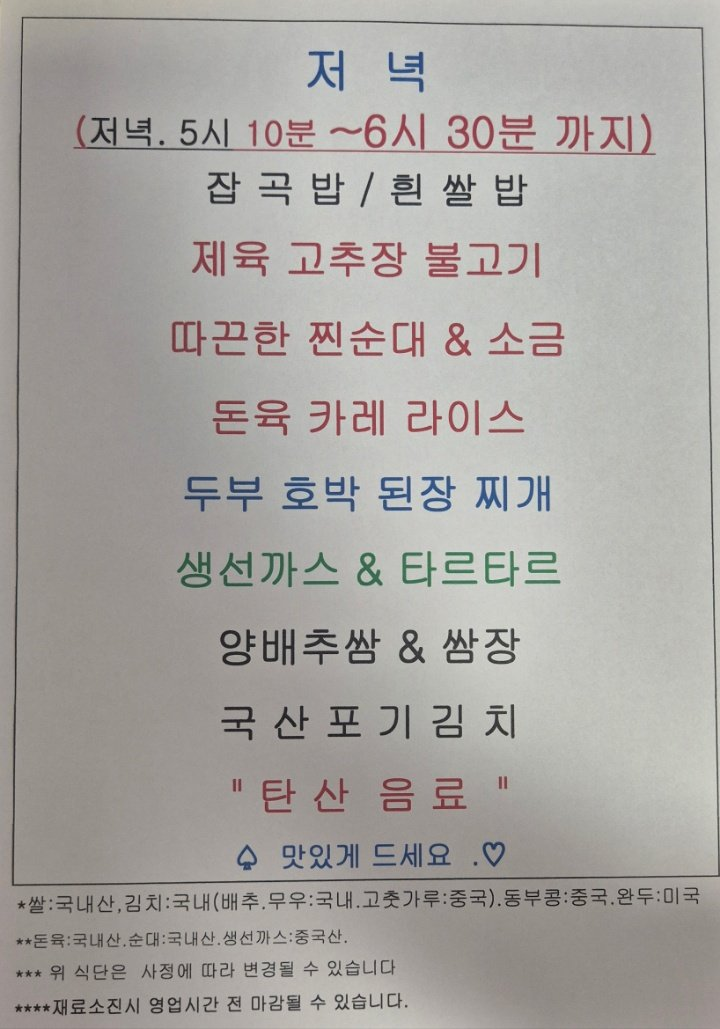
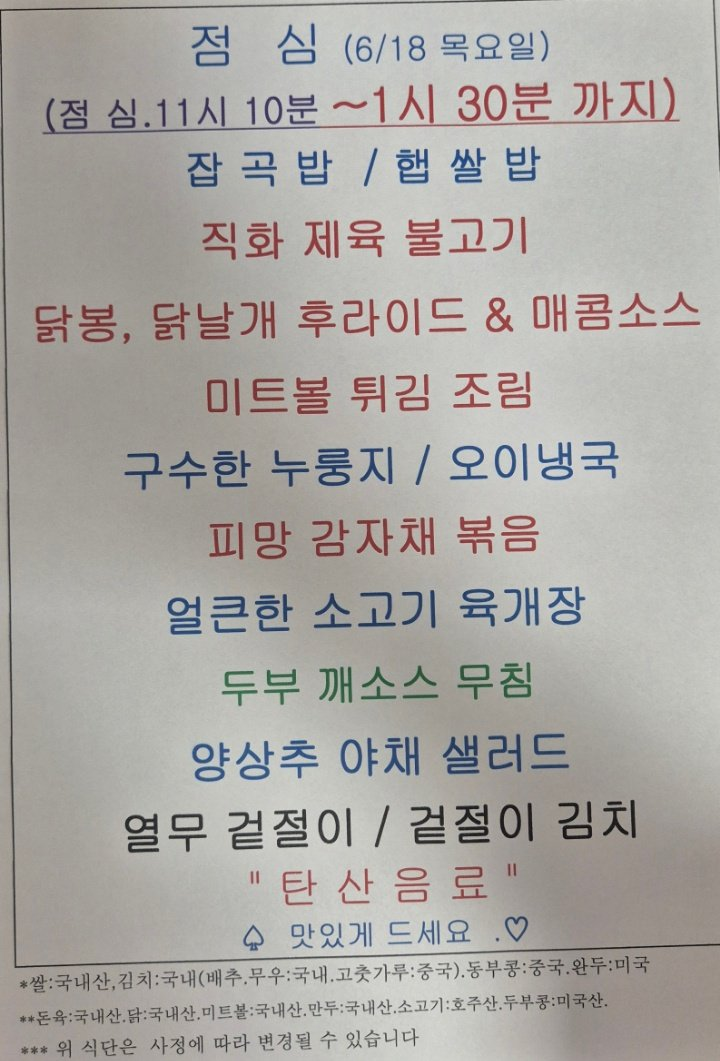
Update menu board assets

diff --git a/menu-today/index.html b/menu-today/index.html
@@ -209,7 +209,7 @@
 
     <section class="meta-bar">
       <div class="meta-card"><div class="meta-label">기준 날짜</div><div class="meta-value">2026년 6월 18일 목요일</div></div>
-      <div class="meta-card"><div class="meta-label">최종 가져온 시간</div><div class="meta-value">2026-06-18 10:03:27</div></div>
+      <div class="meta-card"><div class="meta-label">최종 가져온 시간</div><div class="meta-value">2026-06-18 10:13:34</div></div>
       <div class="meta-card"><div class="meta-label">확인 완료</div><div class="meta-value">10개 식당</div></div>
       <div class="meta-card"><div class="meta-label">준비중</div><div class="meta-value">3개 채널</div></div>
     </section>
@@ -255,7 +255,7 @@
             <div class="sub">디폴리스지식산업센터</div>
           </div>
         </div>
-        <div class="menu-inline-image"><img src="./images/dipolis.png" alt="디폴리스 구내식당 식단 이미지"></div><ul><li>잡곡밥 / 흰쌀밥</li><li>AS 고추장 불고기</li><li>따끈한 Ae &amp; 소금</li><li>돈육 카레 라이스</li><li>몰 호박 된장 찌개</li><li>양배추쌈 &amp; 쌈장</li><li>정에 따라 변경될 수 있습니다</li><li>트리</li><li>까지</li><li>불고</li><li>돈육 발레 라이스</li><li>호박 된장 찌개</li><li>쌈 &amp; 쌈장</li><li>(배추.무우:국</li></ul>
+        <div class="menu-inline-image"><img src="./images/dipolis.png" alt="디폴리스 구내식당 식단 이미지"></div><ul><li>빨곡밥 / 핸쌀밥</li><li>직화 제육 불고기</li><li>닭봉, 닭날개 후라이드 &amp; 매콤소스</li><li>미트볼 튀김 조림</li><li>구수한 누룽지 / 오이냉국</li><li>피망 감자재 +S</li><li>얼큰한 소고기 육개장</li><li>두부 깨소스 무침</li><li>양배추 야채 샐러드</li><li>열무 겉절이 / 겉절이 김치</li><li>&#x27;탄산음</li><li>O 맛있게 드세요 .Y</li><li>*** 위 식단은 사정에 따라 변경될 수 있습니다</li><li>골반 / 핸쌀밥</li><li>다부</li><li>다나</li></ul>
       </article>
 
       <article class="restaurant-card">
